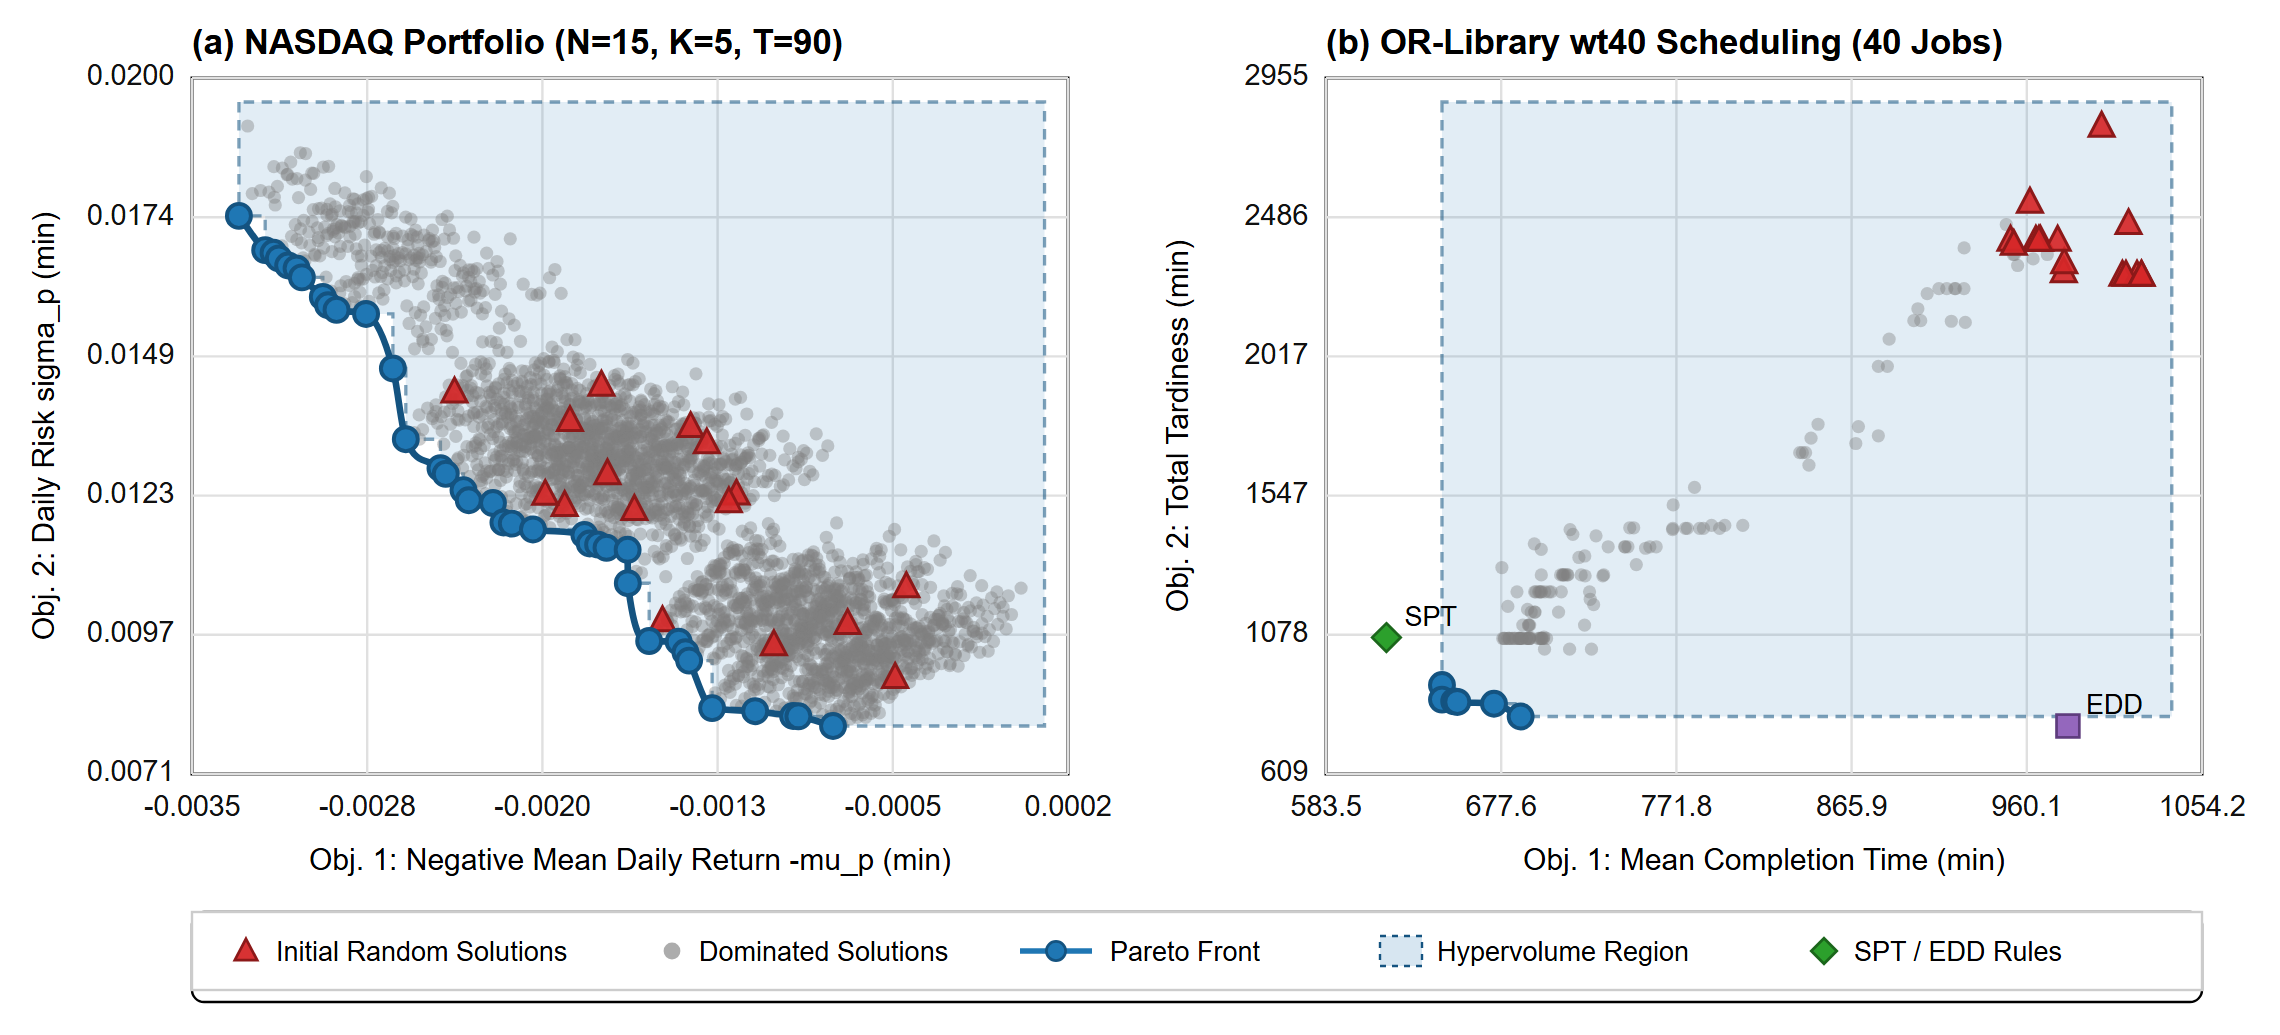
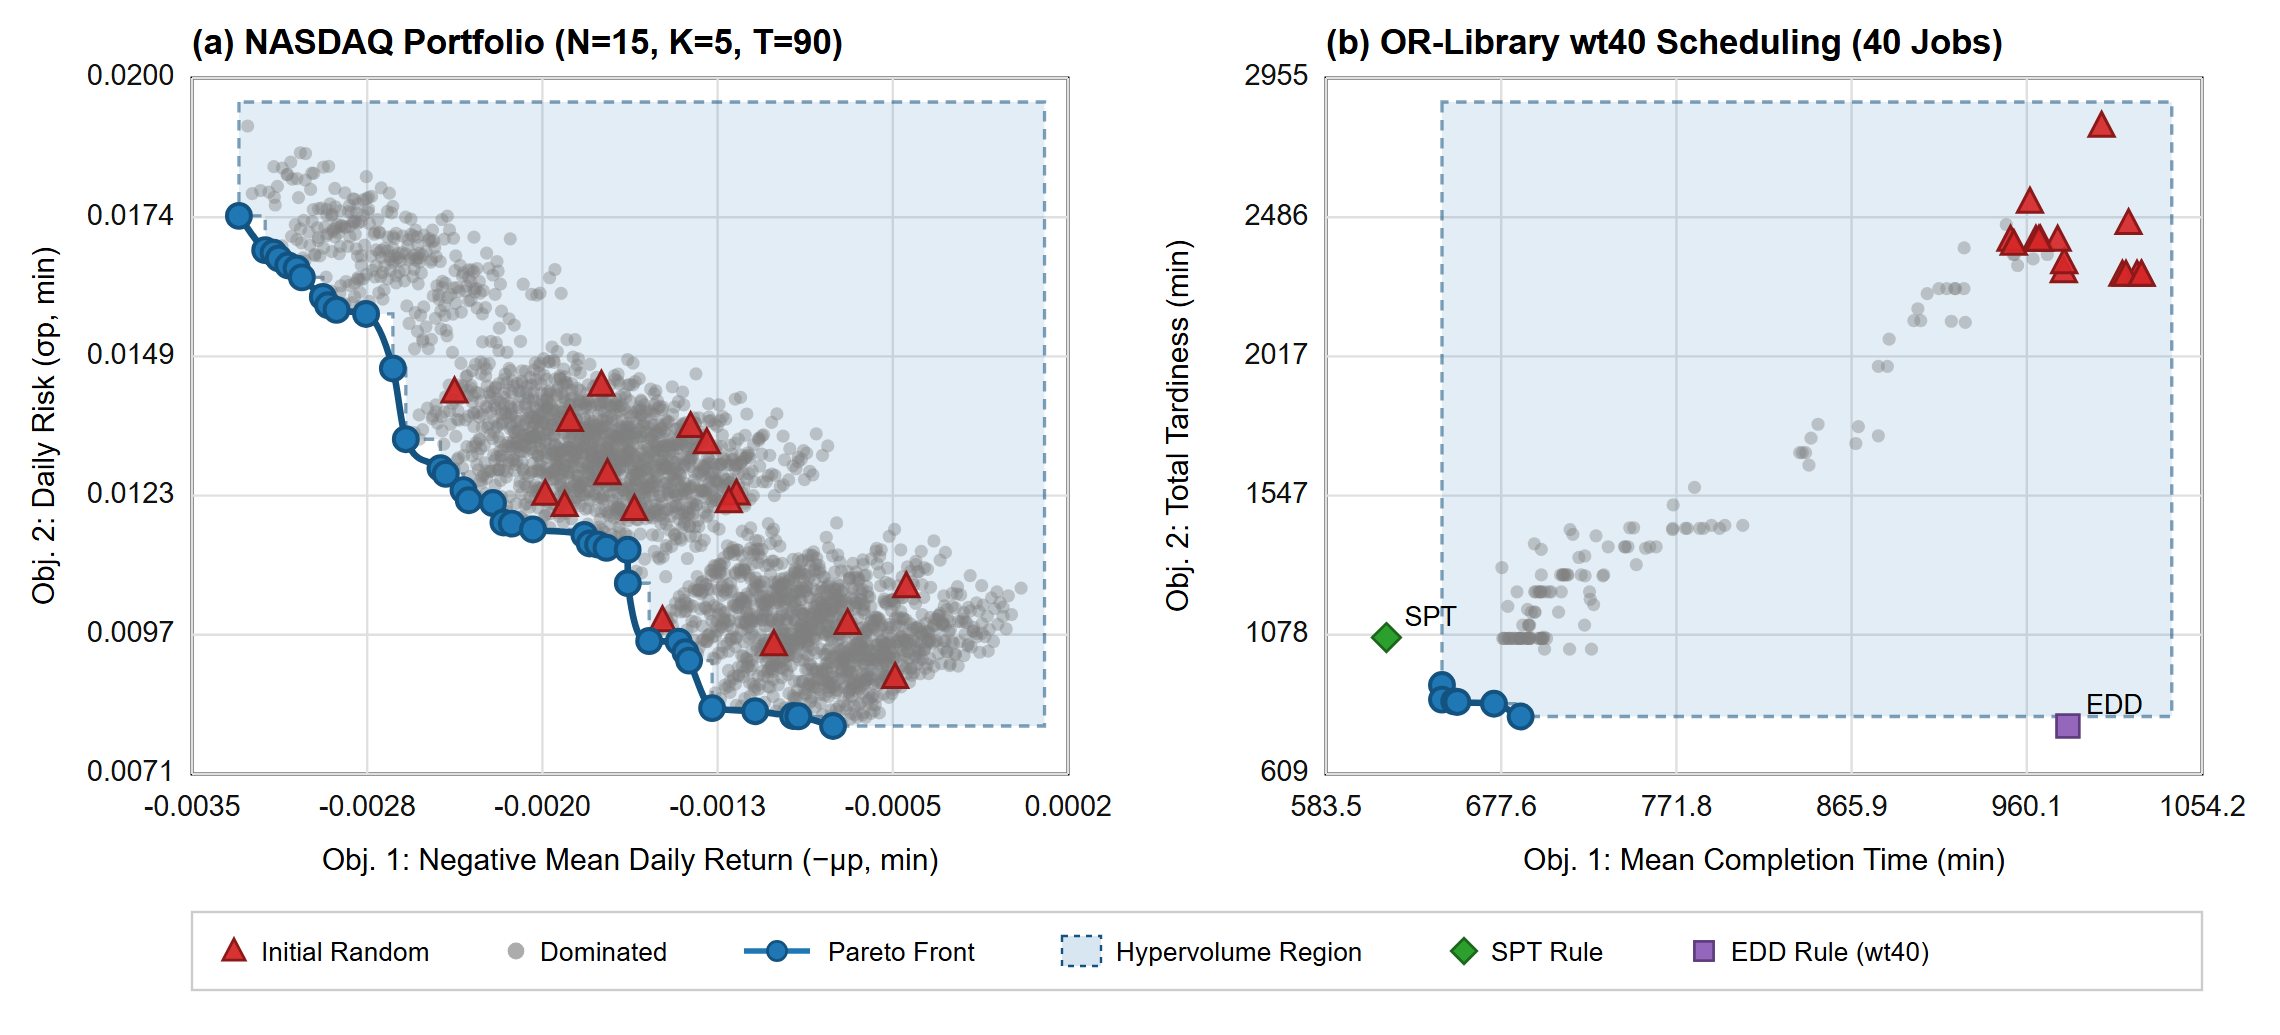
docs,figures: improve ASTI readability, cite repo in APA 7, and clarify Fig 2 EDD legend

diff --git a/docs/PAPER_DRAFT_ASTI_UNWE.md b/docs/PAPER_DRAFT_ASTI_UNWE.md
@@ -66,13 +66,21 @@ Four gaps motivate this work. First, scheduling hyper-heuristics (Zaki et al., 2
 
 ### Six-Role Typed DSL, Static Effects, and Bounded Interpreter
 
-We build a binder-free typed Clojure DSL rooted at `'(:program <domain> (:budget <operation>))`. Every AST node has one of six disjoint roles shown in Figure 2. Control flow uses `:operation` nodes (`:noop`, `:seq`, `:repeat`, `:if`, `:initialize`, `:step`, `:search`) and bounded loop `:count` ($\in \{2, 4, 8, 12, 16, 24, 32, 64\}$). Domain edits use `:initializer` (`:random`, `:first`) and `:operator` moves. Branching relies on `:predicate` forms (`:not`, `:and`, `:less`, `:archive-changed`, `:budget-left`, `:coin`), and selection scores working states via `:score` trees combining `:objective-0`, `:objective-1`, `:progress`, constants, `:add`, and `:multiply`. With no free variables, swapping same-role subtrees always preserves syntax. Static checks enforce effect permissions (`:pure`, `:control`, `:state`) and cap programs at 128 nodes, depth 12, and count 256.
+We build a binder-free typed Clojure DSL rooted at `'(:program <domain> (:budget <operation>))` (Figure 2). Every AST node belongs to one of six disjoint syntactic roles:
+
+- **Control flow (`:operation`):** `:noop`, `:seq`, `:repeat`, `:if`, `:initialize`, `:step`, and `:search`.
+- **Loop bounds (`:count`):** bounded iteration steps in $\{2, 4, 8, 12, 16, 24, 32, 64\}$.
+- **Initializers (`:initializer`) and moves (`:operator`):** `:random` or `:first` starts paired with domain neighborhood operators.
+- **Guards (`:predicate`):** boolean tests `:not`, `:and`, `:less`, `:archive-changed`, `:budget-left`, and `:coin`.
+- **Acceptance (`:score`):** scalarization trees built from `:objective-0`, `:objective-1`, `:progress`, constants, `:add`, and `:multiply`.
+
+With no free variables, exchanging same-role subtrees always preserves syntax. Static checks enforce effect permissions (`:pure`, `:control`, `:state`) and cap programs at 128 AST nodes, depth 12, and count 256.
 
 ![Figure 2: Architecture of the typed S-expression optimizer framework.](figures/png300/fig1_architecture_and_dsl.png)  
 Source: Authors' own elaboration based on the implemented Clojure architecture.  
 Figure 2: Architecture of the typed S-expression optimizer framework showing (a) six-role DSL, (b) meta-evolution and bounded interpreter, and (c, d) benchmark adapters
 
-A bounded interpreter limits interpreter steps and caps each instance at $B = 256$ candidate proposals. When an algorithm revisits an already evaluated solution, the optional cache (`cache? = true`) reuses its objective vector to save runtime. For strict fairness, cache hits still charge 1 proposal against $B = 256$, keeping Pareto archives bitwise identical. We also compare two initialization priors (Dick & Whigham, 2022). The uniform `development-only-v1` prior places single-step leaves at top-level branches, causing early exits below budget, whereas `budget-aware-v2` nests `:seq`, `:repeat`, and `:search` blocks aligned with 256 proposals. Figure 3 traces the full two-level execution flow from outer GP variation through static checking, inner interpretation, validation, and held-out testing.
+A bounded interpreter limits execution steps and caps each instance at $B = 256$ candidate proposals. Under `cache? = true`, revisited solutions reuse stored objectives but still charge 1 proposal against $B = 256$, keeping Pareto archives bitwise identical. We compare two initialization priors (Dick & Whigham, 2022): `development-only-v1`, which places single-step leaves at top-level branches and stops early, against `budget-aware-v2`, which nests `:seq`, `:repeat`, and `:search` blocks aligned with 256 proposals. Figure 3 traces this full two-level workflow.
 
 ![Figure 3: Two-level evolutionary and interpreter workflow across outer GP seeds and base-level runs.](figures/png300/fig1b_evolutionary_workflow.png)  
 Source: Authors' own elaboration based on the implemented experimental pipeline.  
@@ -96,13 +104,20 @@ Figure 4 shows representative discrete Pareto fronts as orthogonal hypervolume s
 
 ![Figure 4: Representative Pareto fronts on NASDAQ Portfolio Selection and OR-Library wt40 Scheduling.](figures/png300/fig2_pareto_fronts_2panel.png)  
 Source: Authors' own experimental runs on frozen benchmark instances.  
-Figure 4: Representative non-dominated Pareto fronts on real NASDAQ portfolio selection ($N=15, K=5, T=90$) and OR-Library `wt40` scheduling ($J=40$ jobs)
+Figure 4: Representative non-dominated Pareto fronts on real NASDAQ portfolio selection ($N=15, K=5, T=90$) and OR-Library `wt40` scheduling ($J=40$ jobs; green diamond: classical SPT rule minimizing completion time; purple square: classical EDD rule minimizing due-date violations)
 
 ### Experimental Protocol, Ethics, and Reproducibility Statement
 
-Across 30 independent outer seeds (`0..29`), each search arm evaluates 256 candidate programs on the 6 training instances, freezes one top validation candidate, and runs it once on the 24 test instances (Table 2). We compare Full GP (`A1: :gp-mixed`), Mutation-Only GP (`A2: :gp-mutation-only`), Equal-Budget Random DSL (`A3: :random-dsl`), Formula-Only Evolution (`A4: :formula-only`), and Configured Conventional Baselines (`A5: :configured-conventional`, validation-tuned across NSGA-II, Pareto Local Search, and Multi-Start Restart). Because GP settings remain static without hyperparameter optimization, Table 3 lists all fixed evolutionary, interpreter, and baseline search-space parameters explicitly. Four paired hypotheses test key components: **H1** (`A1` vs. `A3`), **H2** (`A1` vs. `A4`), **H3** (`A1` vs. `A2`), and **H4** (`A1` vs. `A5`), using 10,000-resample paired bootstrap confidence intervals, Holm-Bonferroni correction ($\alpha = 0.05$), and $\Delta_{\mathrm{prac}} = 0.01$. All Clojure code, tests, configurations, and the NASDAQ-50 reconstruction script are archived at https://github.com/npenchev88/typed-sexpr-hyperheuristics.
+Across 30 independent outer seeds (`0..29`), each arm runs 256 outer assessments on 6 training instances, freezes 1 top validation candidate, and tests it once on 24 held-out instances (Table 2, Table 3). Five arms are evaluated:
 
-**Ethics Approval and Originality Statement.** This study uses only public historical equity series (NASDAQ-50) and the public OR-Library `wt40` benchmark; no human subjects, personal data, or animal experiments are involved, so ethics board approval is not applicable. All work is original, properly cited under APA 7th guidelines, free of plagiarism or unverified AI fabrication, and not submitted elsewhere.
+- **Full GP (`A1: :gp-mixed`) and Mutation-Only GP (`A2: :gp-mutation-only`):** evolve `v2` ASTs using subtree mutation with crossover ($p_c = 0.5$) or without crossover ($p_c = 0.0$).
+- **Random DSL (`A3: :random-dsl`):** draws 256 independent `v2` trees without selection.
+- **Formula-Only (`A4: :formula-only`):** evolves only `:score` expressions inside a fixed `:swap` scaffold.
+- **Configured Baselines (`A5: :configured-conventional`):** validation-tunes NSGA-II, Pareto Local Search, and Multi-Start Restart across 256 configurations.
+
+Four paired hypotheses (**H1**: `A1` vs. `A3`; **H2**: `A1` vs. `A4`; **H3**: `A1` vs. `A2`; **H4**: `A1` vs. `A5`) use 10,000-resample paired bootstrap CIs, Holm-Bonferroni correction ($\alpha = 0.05$), and $\Delta_{\mathrm{prac}} = 0.01$. Complete Clojure source code, test suites, frozen configurations, replication logs, and the NASDAQ-50 script are publicly archived (Penchev & Marchev, 2026c).
+
+**Ethics Approval and Originality Statement.** This study uses only public historical equity series (NASDAQ-50) and OR-Library `wt40`; no human subjects, personal data, or animal experiments are involved. All work is original, cited under APA 7th rules, free of plagiarism or unverified fabrication, and not submitted elsewhere.
 
 Table 2: Main experimental parameters across both benchmark domains
 
@@ -128,7 +143,7 @@ Table 3: Fixed hyperparameters and configured conventional baseline search space
 | (`256` samples/seed) | Pareto Local Search (PLS) | `initial-starts`, `neighbors-per-step` $\in \{1, 2, 4, 8\}$; rule `{unvisited, crowding, random}` |
 | | Multi-Start Restart | `restart-period` $\in \{4, 8, 16, 32\}$; weights `{balanced, alternating, uniform-grid}` |
 
-Source: Authors' frozen experimental specification (`src/niki/optimizer/` and `scripts/run-thirty-replications-g8.clj`).
+Source: Authors' frozen experimental configuration, available in the authors' GitHub repository (Penchev & Marchev, 2026c).
 
 ---
 
@@ -169,11 +184,11 @@ Figure 6: Base-level execution time per instance in ms (a) and one-time outer de
 
 ### Domain-Level Quality and Concrete Solutions
 
-Table 5 shows concrete financial and scheduling metrics across the 24 test instances. On NASDAQ-50, all four DSL arms reach higher peak returns (`+0.378%` to `+0.380%`) and return-to-risk ratios (`4.33`–`4.43`) than `:configured-conventional` (`+0.371%`, `4.24`). Configured NSGA-II and PLS earn their `+0.00465` HV edge by extending the low-volatility left tail (`0.845%` vs. `0.947%` min risk) and keeping roughly two more intermediate portfolios (`17.2` vs. `14.9` in Table 5).
+Table 5 translates Pareto fronts into concrete domain metrics averaged across all 24 held-out test instances:
 
-Sample fronts illustrate this trade-off. On `nasdaq-test-0` (`2016-09-07` to `2017-01-13`), median `:gp-mixed` traces 17 portfolios from `(AAPL, ADP, COST, CSCO, ISRG)` (`11.28%` annualized volatility) up to `(NVDA, AMD, CSX, FITB, HBAN)` (`+0.438%` daily return). On `nasdaq-test-23` (`2025-08-26` to `2026-01-02`), it builds 14 portfolios spanning defensive `(AAPL, COST, CTSH, IDXX, PEP)` (`11.99%` volatility), balanced `(ASML, CTSH, GILD, MAR, MU)` (`+0.422%` return, `4.94` return-to-risk), and growth `(GOOGL, INTC, KLAC, LRCX, MU)` (`+0.686%` daily return).
-
-On OR-Library `wt40`, single-pass rules expose the scheduling trade-off: SPT keeps completion low (`734.5`) at high tardiness (`11,173.8`), while EDD worsens both metrics (`1,037.8` completion, `12,032.6` tardiness). Evolved `:gp-mixed` cuts minimum tardiness to `9,878.3` (`-1,295.5` units, or `11.6%` below SPT). At the knee schedule, `:gp-mixed` reaches `781.9 / 9,928.8` versus `828.7 / 10,410.1` for `:configured-conventional`, improving completion (`-46.8`) and tardiness (`-481.3`) together.
+- **NASDAQ-50 Front Coverage:** All four DSL arms achieve higher peak daily returns (`+0.378%` to `+0.380%`) and return-to-risk ratios (`4.33`–`4.43`) than `:configured-conventional` (`+0.371%`, `4.24`). Configured NSGA-II and PLS earn their `+0.00465` HV edge by extending the low-volatility corner (`0.845%` vs. `0.947%`) with extra points (`17.2` vs. `14.9`).
+- **Concrete Equity Baskets:** On `nasdaq-test-0` (`2016–2017`), median `:gp-mixed` traces 17 portfolios from `(AAPL, ADP, COST, CSCO, ISRG)` (`11.28%` volatility) up to `(NVDA, AMD, CSX, FITB, HBAN)` (`+0.438%` daily return). On `nasdaq-test-23` (`late 2025`), it builds 14 portfolios spanning defensive `(AAPL, COST, CTSH, IDXX, PEP)` (`11.99%` volatility), balanced `(ASML, CTSH, GILD, MAR, MU)` (`+0.422%`, `4.94` return-to-risk), and growth `(GOOGL, INTC, KLAC, LRCX, MU)` (`+0.686%`).
+- **Scheduling (`wt40`) Trade-offs:** Classical SPT lowers completion time (`734.5`) at high tardiness (`11,173.8`), while EDD worsens both metrics (`1,037.8` completion, `12,032.6` tardiness). Evolved `:gp-mixed` cuts minimum tardiness to `9,878.3` (`11.6%` below SPT) and dominates `:configured-conventional` at the knee schedule (`781.9 / 9,928.8` vs. `828.7 / 10,410.1`, saving `46.8` completion and `481.3` tardiness units).
 
 Table 5: Concrete domain-level solution quality averaged across 24 held-out test instances (Mean ± 95% CI)
 
@@ -214,17 +229,20 @@ Source: Authors' paired bootstrap analysis (*Note:* Scheduling H4 unadjusted 95%
 
 ### Anytime Budget Scaling and Mechanism Ablations
 
-Across budgets $B \in \{16, 32, 64, 128, 256\}$ (Figure 7), `:gp-mixed` converges faster than `:configured-conventional`. On NASDAQ-50, it leads from $B=16$ through $B=128$ (`0.66832` vs. `0.64250` at $B=64$, `0.70545` vs. `0.69347` at $B=128$) before NSGA-II and PLS catch up at $B=256$. On `wt40`, `:gp-mixed` passes `:configured-conventional` by $B=64$ (`0.46570` vs. `0.45707`) and widens its lead to `0.54067` vs. `0.52760`. Under `v1`, programs stall lower (`0.70890` portfolios, `0.51751` `wt40`) because shallow branches stop early.
+Across inner budgets $B \in \{16, 32, 64, 128, 256\}$ (Figure 7), `:gp-mixed` converges faster than `:configured-conventional`:
+
+- **NASDAQ-50 Anytime Curve:** `:gp-mixed` leads from $B=16$ through $B=128$ (`0.66832` vs. `0.64250` at $B=64$, `0.70545` vs. `0.69347` at $B=128$) before NSGA-II and PLS catch up at $B=256$.
+- **Scheduling (`wt40`) Anytime Curve:** `:gp-mixed` passes `:configured-conventional` by $B=64$ (`0.46570` vs. `0.45707`) and widens its lead to `0.54067` vs. `0.52760`; under `v1`, programs stall lower (`0.70890` portfolios, `0.51751` `wt40`) due to early exits.
 
 ![Figure 7: Anytime normalized test hypervolume across evaluation budgets B = 16 to 256.](figures/png300/fig4_anytime_budget_scaling.png)  
 Source: Authors' budget-scaling ablation runs across 30 seeds.  
 Figure 7: Anytime normalized test hypervolume scaling across per-instance evaluation budgets $B \in \{16, 32, 64, 128, 256\}$
 
-Figure 8 isolates three system mechanisms. In Panel A, 1,000 `v2` draws yield 100% valid trees (`0` rejections), and typed variation passes checks on 86.8%–93.5% of edits. Untyped generation (`:untyped-validated`) rejects ~91% of raw proposals (`6,199` rejections for `613` valid trees), with 38.7% falling back to minimal default trees. In full runs, untyped search visits just `6.0`–`8.5` distinct programs and collapses to `0.36461` HV on portfolios and `0.35601` on `wt40`.
+Figure 8 isolates three system mechanisms across both domains:
 
-Panel B ablates six AST components (`K1`–`K6`) against intact programs (`K0`). Deleting the search body (`K1`) drops HV by `-0.37724` on portfolios (`0.72999` to `0.35275`) and `-0.18466` on `wt40` (`0.54067` to `0.35601`). Unlike our single-objective knapsack study where a built-in greedy initializer supplied almost all quality (Penchev & Marchev, 2026a), the evolved search loop does most work here. Zeroing `:score` (`K3`) cuts HV by `-0.11241` and `-0.11874`, while removing `:objective-1` (`K6`) costs `-0.02209` and `-0.01690`. Resetting constants (`K4`), freezing `:progress` (`K5`), or forcing `:random` initialization (`K2`) shifts HV by at most `-0.00039` to `+0.00088`.
-
-Panel C verifies `cache? = true`. Caching leaves archives bitwise identical (`max-hv-abs-diff = 0.0`), avoids 17.5% of NASDAQ-50 calls (`10,771` saved calls over 240 runs, `147.0` to `127.7 ms`), and speeds up `wt40` (`684.8` to `597.5 ms`). Leaving cache hits uncharged would grant `22.7`–`42.5` free proposals and inflate portfolio HV by `+0.00163`–`+0.00256`.
+- **Static Typing (Panel a):** 1,000 `v2` draws yield 100% valid trees (`0` rejections), and typed variation passes checks on 86.8%–93.5% of edits. Untyped trees (`:untyped-validated`) reject ~91% of proposals (`6,199` rejections for `613` valid trees; 38.7% default fallbacks), explore only `6.0`–`8.5` trees, and collapse to `0.36461` HV on portfolios and `0.35601` on `wt40`.
+- **AST Knockouts (Panel b):** Deleting the search body (`K1`) drops HV by `-0.37724` (portfolios) and `-0.18466` (`wt40`), showing evolved loops carry most quality unlike preset greedy knapsack rules (Penchev & Marchev, 2026a). Zeroing `:score` (`K3`) cuts HV by `-0.11241` and `-0.11874`, dropping `:objective-1` (`K6`) costs `-0.02209` and `-0.01690`, while `K2`, `K4`, and `K5` shift HV within `-0.00039` to `+0.00088`.
+- **Cache Accounting (Panel c):** Under `cache? = true`, archives remain bitwise identical (`max-hv-abs-diff = 0.0`) while saving 17.5% of NASDAQ-50 calls (`10,771` calls over 240 runs; `147.0` to `127.7 ms`) and speeding up `wt40` (`684.8` to `597.5 ms`). Leaving cache hits uncharged would grant `22.7`–`42.5` free proposals and inflate HV by `+0.00163`–`+0.00256`.
 
 ![Figure 8: Mechanism ablations for static typing, AST knockouts, and evaluation caching.](figures/png300/fig5_mechanism_ablations_3panel.png)  
 Source: Authors' mechanism ablation experiments on frozen benchmarks.  
@@ -269,7 +287,7 @@ Author academic affiliations and ORCID identifiers appear in Footnotes 1 and 2 o
 
 1. *Faculty of Economics and Business Administration, Sofia University "St. Kliment Ohridski", Sofia, Bulgaria, ORCID: 0009-0000-8955-2474.*
 2. *Department of Management, University of National and World Economy (UNWE), and Faculty of Economics and Business Administration, Sofia University "St. Kliment Ohridski", Sofia, Bulgaria, ORCID: 0000-0002-5090-3123.*
-3. *Source code, experiment configurations, 30-seed replication logs, and the Yahoo Finance NASDAQ-50 dataset reconstruction script are available at https://github.com/npenchev88/typed-sexpr-hyperheuristics alongside the public OR-Library wt40 benchmark.*
+3. *Data provenance and code availability note: all Clojure code, frozen experimental configurations, 30-seed replication logs, and the Yahoo Finance NASDAQ-50 reconstruction script are archived in the authors' GitHub repository (Penchev & Marchev, 2026c), alongside the public OR-Library wt40 benchmark (Beasley, 1990).*
 
 ---
 
@@ -316,6 +334,8 @@ Parthasarathy, D., Mitchell, W. B., & Köstler, H. (2024). Evolving algebraic mu
 Penchev, N., & Marchev, A., Jr. (2026a). Evolution of interpretable optimization algorithms through typed S-expressions for binary knapsack-like portfolio selection. In *Artificial Intelligence: Methodology, Systems, and Applications (AIMSA)*.
 
 Penchev, N., & Marchev, A., Jr. (2026b). Multi-objective knapsack-like portfolio optimization using evolutionary algorithm (UNWE Research Project No. NID NI-11/2026/A). University of National and World Economy.
+
+Penchev, N., & Marchev, A., Jr. (2026c). *Typed S-expression hyper-heuristics in Clojure* [Computer software]. GitHub. https://github.com/npenchev88/typed-sexpr-hyperheuristics
 
 Romera-Paredes, B., Barekatain, M., Novikov, A., Balog, M., Kumar, M. P., Dupont, E., Ruiz, F. J. R., Ellenberg, J. S., Wang, P., Fawzi, O., Kohli, P., & Fawzi, A. (2024). Mathematical discoveries from program search with large language models. *Nature*, *625*, 468–475. https://doi.org/10.1038/s41586-023-06924-6
 
